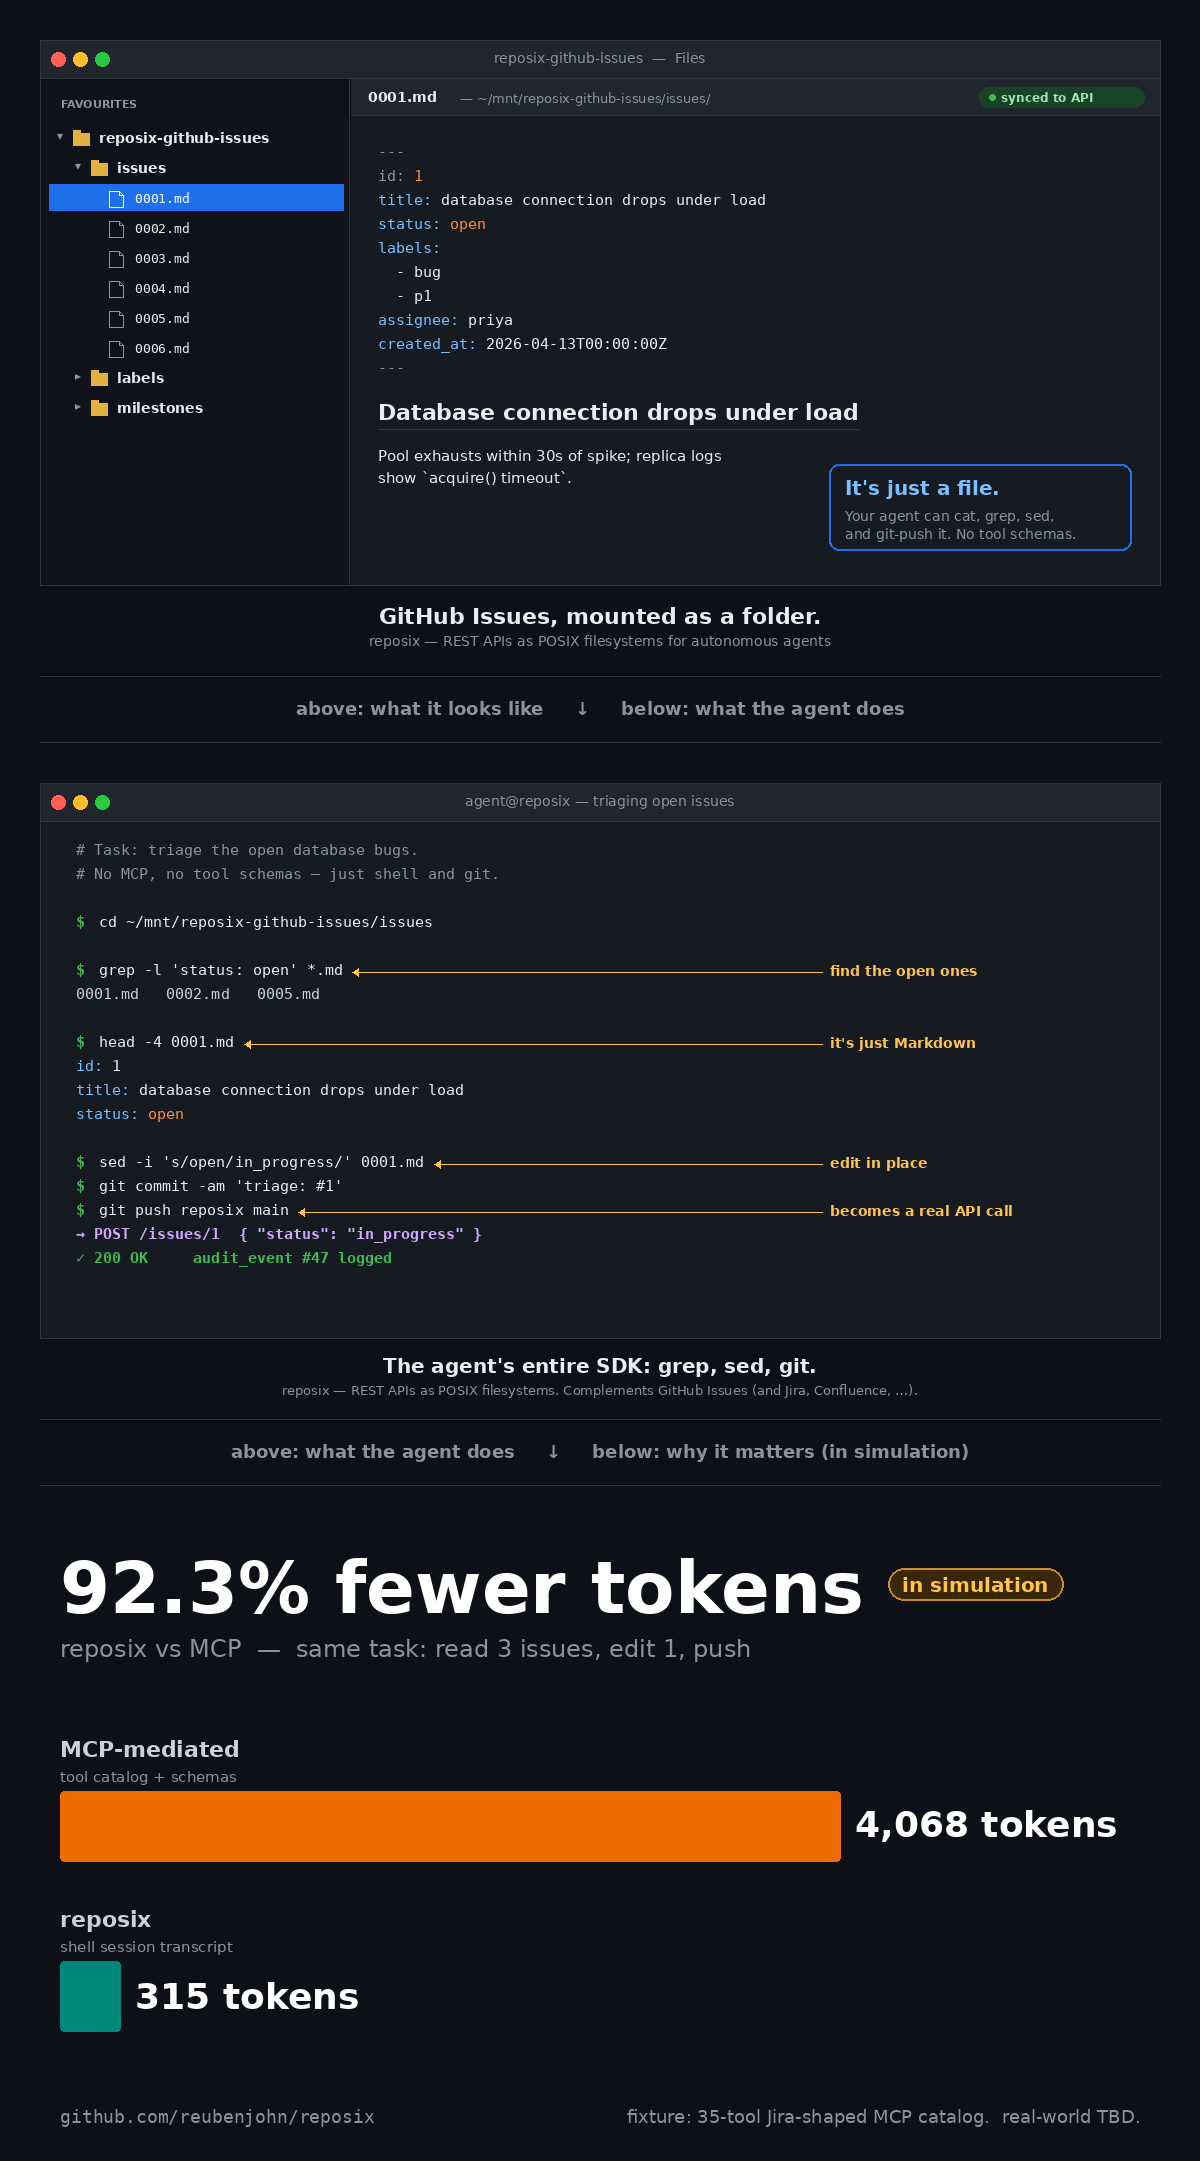
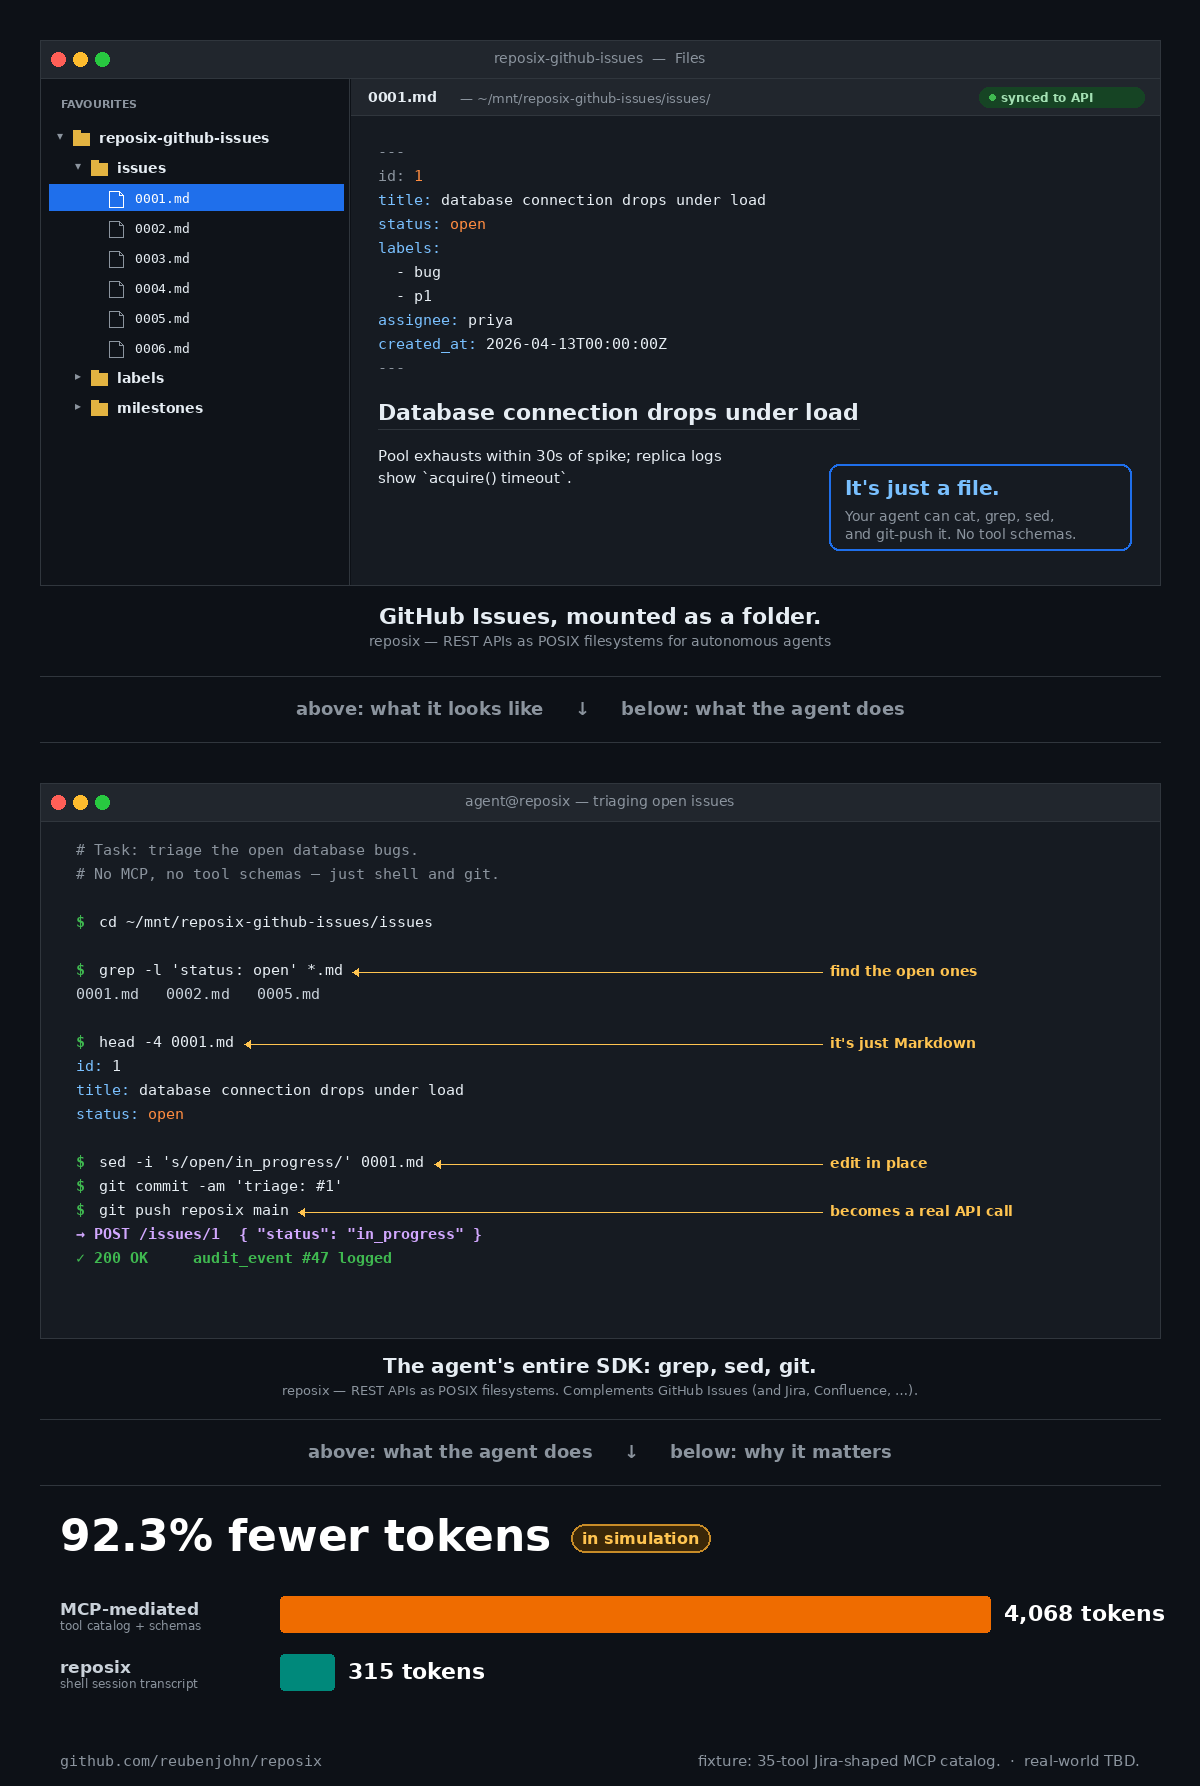
fix(08-review): MR-03 strict If-Match absence test
Previous test mounted a permissive matcher + comment-only disclaimer that
any 200 proved the header wasn't sent. It did NOT. Replaced with:
- Custom wiremock::Match impl `NoIfMatch` that inspects request headers
  and only matches when If-Match is absent.
- `.expect(1)` so server drop panics if the matcher didn't fire exactly
  once.

Now any future regression that leaks If-Match onto the wildcard path
turns the test red instead of passing quietly.

diff --git a/social/assets/_build_combined.py b/social/assets/_build_combined.py
@@ -1,18 +1,17 @@
-"""Combine hero.png + workflow.png + benchmark.png into a single media item.
+"""Combine hero.png + workflow.png + a benchmark summary into a single media item.
 
 Produces two outputs:
 
   combined.gif   - 3-slide loop, 4.5s each. Both platforms autoplay.
-                   Use this when you can only attach one item.
-  combined.png   - tall stacked PNG (hero, workflow, benchmark). Use this
-                   if you prefer a single static image.
+                   Uses the full 1200x675 benchmark.png slide.
+  combined.png   - tall stacked PNG (hero, workflow, compact benchmark strip).
+                   Renders the benchmark as a slim summary band so the
+                   page has rhythm instead of three equal slabs.
 
 Slide order tells a story:
   1. hero      - "what it looks like" (file browser)
   2. workflow  - "what the agent does" (annotated shell session)
   3. benchmark - "why it matters" (92.3% fewer tokens, in simulation)
-
-All three inputs are already 1200x675 — no re-rendering needed.
 """
 
 from __future__ import annotations
@@ -31,13 +30,29 @@ OUT_PNG = ASSETS / "combined.png"
 HOLD_MS = 4500
 
 F_DIR = Path("/usr/share/fonts/truetype/dejavu")
+F_SANS = F_DIR / "DejaVuSans.ttf"
 F_SANS_B = F_DIR / "DejaVuSans-Bold.ttf"
-DIM = (139, 148, 158)
+F_MONO = F_DIR / "DejaVuSansMono.ttf"
+
+# Palette (matches benchmark.png + hero.png)
 BG = (13, 17, 23)
+FG = (201, 209, 217)
+WHITE = (255, 255, 255)
+DIM = (139, 148, 158)
 DIV_BORDER = (48, 54, 61)
+MCP_COLOR = (239, 108, 0)
+REPOSIX_COLOR = (0, 137, 123)
+AMBER_BG = (58, 39, 8)
+AMBER_BORDER = (200, 140, 40)
+AMBER_FG = (255, 196, 80)
 
 
-def _sources() -> list[Image.Image]:
+def _ft(p: Path, s: int) -> ImageFont.FreeTypeFont:
+    return ImageFont.truetype(str(p), s)
+
+
+def _sources_for_gif() -> list[Image.Image]:
+    """Three full-size 1200x675 slides for the GIF."""
     imgs = [Image.open(p).convert("RGB") for p in (HERO, WORK, BENCH)]
     w, h = imgs[0].size
     for im, p in zip(imgs, (HERO, WORK, BENCH)):
@@ -48,7 +63,7 @@ def _sources() -> list[Image.Image]:
 def build_gif() -> None:
     frames = [
         im.quantize(colors=255, method=Image.Quantize.FASTOCTREE)
-        for im in _sources()
+        for im in _sources_for_gif()
     ]
 
     frames[0].save(
@@ -69,11 +84,13 @@ def build_gif() -> None:
         )
 
 
-def _draw_divider(d: ImageDraw.ImageDraw, y0: int, y1: int, W: int, label: str) -> None:
+def _draw_divider(
+    d: ImageDraw.ImageDraw, y0: int, y1: int, W: int, label: str
+) -> None:
     d.rectangle((0, y0, W, y1), fill=BG)
     d.line((40, y0 + 1, W - 40, y0 + 1), fill=DIV_BORDER, width=1)
     d.line((40, y1 - 1, W - 40, y1 - 1), fill=DIV_BORDER, width=1)
-    f = ImageFont.truetype(str(F_SANS_B), 18)
+    f = _ft(F_SANS_B, 18)
     bb = d.textbbox((0, 0), label, font=f)
     lw = bb[2] - bb[0]
     th = bb[3] - bb[1]
@@ -81,23 +98,158 @@ def _draw_divider(d: ImageDraw.ImageDraw, y0: int, y1: int, W: int, label: str) 
            label, font=f, fill=DIM)
 
 
+def _draw_compact_benchmark(
+    canvas: Image.Image, x: int, y: int, W: int, H: int
+) -> None:
+    """Render a slim, horizontal benchmark summary band for the stacked PNG.
+
+    Layout: full-width rows stacked top-to-bottom (headline, MCP bar, reposix
+    bar, footer). Avoids the side-by-side crowding of the full slide while
+    preserving the same data.
+    """
+    d = ImageDraw.Draw(canvas)
+    d.rectangle((x, y, x + W, y + H), fill=BG)
+
+    left_x = x + 60
+    right_x = x + W - 60
+
+    # --- Row 1: headline + "in simulation" pill
+    head_font = _ft(F_SANS_B, 44)
+    head_txt = "92.3% fewer tokens"
+    d.text((left_x, y + 24), head_txt, font=head_font, fill=WHITE)
+    head_bb = d.textbbox((left_x, y + 24), head_txt, font=head_font)
+
+    pill_font = _ft(F_SANS_B, 16)
+    pill_txt = "in simulation"
+    pb = d.textbbox((0, 0), pill_txt, font=pill_font)
+    pill_w = (pb[2] - pb[0]) + 22
+    pill_h = 28
+    pill_x0 = head_bb[2] + 20
+    pill_y0 = head_bb[1] + (head_bb[3] - head_bb[1] - pill_h) // 2 + 4
+    d.rounded_rectangle(
+        (pill_x0, pill_y0, pill_x0 + pill_w, pill_y0 + pill_h),
+        radius=14,
+        fill=AMBER_BG,
+        outline=AMBER_BORDER,
+        width=2,
+    )
+    d.text(
+        (pill_x0 + 11, pill_y0 + 5),
+        pill_txt,
+        font=pill_font,
+        fill=AMBER_FG,
+    )
+
+    # --- Bar rows: labels on the left (width 220), bars fill the rest
+    label_col_w = 220
+    bars_x0 = left_x + label_col_w
+    bars_right = right_x
+    # Reserve ~150px for the "4,068 tokens" label at bar end
+    label_reserve = 150
+    scale = (bars_right - bars_x0 - label_reserve) / 4068.0
+    bar_h = 36
+    row_gap = 58  # distance between the two bars
+
+    # Row 2: MCP
+    row1_y = y + 110
+    d.text(
+        (left_x, row1_y + 3),
+        "MCP-mediated",
+        font=_ft(F_SANS_B, 17),
+        fill=FG,
+    )
+    d.text(
+        (left_x, row1_y + 22),
+        "tool catalog + schemas",
+        font=_ft(F_SANS, 12),
+        fill=DIM,
+    )
+    mcp_w = int(4068 * scale)
+    d.rounded_rectangle(
+        (bars_x0, row1_y, bars_x0 + mcp_w, row1_y + bar_h),
+        radius=4,
+        fill=MCP_COLOR,
+    )
+    d.text(
+        (bars_x0 + mcp_w + 14, row1_y + 4),
+        "4,068 tokens",
+        font=_ft(F_SANS_B, 22),
+        fill=WHITE,
+    )
+
+    # Row 3: reposix
+    row2_y = row1_y + row_gap
+    d.text(
+        (left_x, row2_y + 3),
+        "reposix",
+        font=_ft(F_SANS_B, 17),
+        fill=FG,
+    )
+    d.text(
+        (left_x, row2_y + 22),
+        "shell session transcript",
+        font=_ft(F_SANS, 12),
+        fill=DIM,
+    )
+    rep_w = max(int(315 * scale), 6)
+    d.rounded_rectangle(
+        (bars_x0, row2_y, bars_x0 + rep_w, row2_y + bar_h),
+        radius=4,
+        fill=REPOSIX_COLOR,
+    )
+    d.text(
+        (bars_x0 + rep_w + 14, row2_y + 4),
+        "315 tokens",
+        font=_ft(F_SANS_B, 22),
+        fill=WHITE,
+    )
+
+    # Footer band
+    footer_y = y + H - 34
+    d.text(
+        (left_x, footer_y),
+        "github.com/reubenjohn/reposix",
+        font=_ft(F_MONO, 15),
+        fill=DIM,
+    )
+    right_foot = "fixture: 35-tool Jira-shaped MCP catalog.  \u00b7  real-world TBD."
+    rf_font = _ft(F_SANS, 15)
+    rfb = d.textbbox((0, 0), right_foot, font=rf_font)
+    d.text(
+        (x + W - 60 - (rfb[2] - rfb[0]), footer_y),
+        right_foot,
+        font=rf_font,
+        fill=DIM,
+    )
+
+
 def build_stacked_png() -> None:
-    a, b, c = _sources()
+    a = Image.open(HERO).convert("RGB")
+    b = Image.open(WORK).convert("RGB")
+    assert a.size == b.size
+
     W = a.width
     DIV_H = 68
-    H = a.height + DIV_H + b.height + DIV_H + c.height
+    BENCH_H = 300     # slim summary band
+    H = a.height + DIV_H + b.height + DIV_H + BENCH_H
+
     canvas = Image.new("RGB", (W, H), BG)
     canvas.paste(a, (0, 0))
     canvas.paste(b, (0, a.height + DIV_H))
-    canvas.paste(c, (0, a.height + DIV_H + b.height + DIV_H))
 
     d = ImageDraw.Draw(canvas)
     y = a.height
-    _draw_divider(d, y, y + DIV_H, W,
-                  "above: what it looks like     \u2193     below: what the agent does")
+    _draw_divider(
+        d, y, y + DIV_H, W,
+        "above: what it looks like     \u2193     below: what the agent does",
+    )
     y += DIV_H + b.height
-    _draw_divider(d, y, y + DIV_H, W,
-                  "above: what the agent does     \u2193     below: why it matters (in simulation)")
+    _draw_divider(
+        d, y, y + DIV_H, W,
+        "above: what the agent does     \u2193     below: why it matters",
+    )
+    y += DIV_H
+    _draw_compact_benchmark(canvas, 0, y, W, BENCH_H)
 
     canvas.save(OUT_PNG, format="PNG", optimize=True)
     with Image.open(OUT_PNG) as v:

diff --git a/crates/reposix-core/src/backend/sim.rs b/crates/reposix-core/src/backend/sim.rs
@@ -461,19 +461,26 @@ mod tests {
 
     #[tokio::test]
     async fn update_without_expected_version_is_wildcard() {
+        // Strict negative proof: mount ONE matcher that explicitly requires
+        // If-Match to be absent (via a closure matcher), with `.expect(1)` —
+        // wiremock's `MockServer::drop` then panics if the mock wasn't hit
+        // exactly once. Any leak of `If-Match` onto the wire turns this into
+        // a verification failure rather than a false pass.
+        use wiremock::Match;
+        struct NoIfMatch;
+        impl Match for NoIfMatch {
+            fn matches(&self, request: &wiremock::Request) -> bool {
+                !request.headers.contains_key("if-match")
+            }
+        }
+
         let server = MockServer::start().await;
-        // Strict: mount a matcher that accepts ONLY requests WITHOUT If-Match.
-        // wiremock doesn't have a built-in `header_absent`; we approximate by
-        // mounting a catch-all that accepts everything and a stricter rule that
-        // only matches when If-Match is present — the absence of the strict
-        // rule's matcher proves the header wasn't sent.
-        // Simpler: assert a 200 response and the request landed on the right
-        // URL; rely on `update_with_expected_version_attaches_if_match` to
-        // cover the with-etag path.
         Mock::given(method("PATCH"))
             .and(path("/projects/demo/issues/42"))
             .and(header("Content-Type", "application/json"))
+            .and(NoIfMatch)
             .respond_with(ResponseTemplate::new(200).set_body_json(sample_issue_json(42)))
+            .expect(1)
             .mount(&server)
             .await;
 
@@ -484,6 +491,8 @@ mod tests {
             .await
             .expect("update");
         assert_eq!(out.id, IssueId(42));
+        // server drops here; .expect(1) panics if the no-If-Match matcher
+        // didn't fire exactly once.
     }
 
     #[tokio::test]
